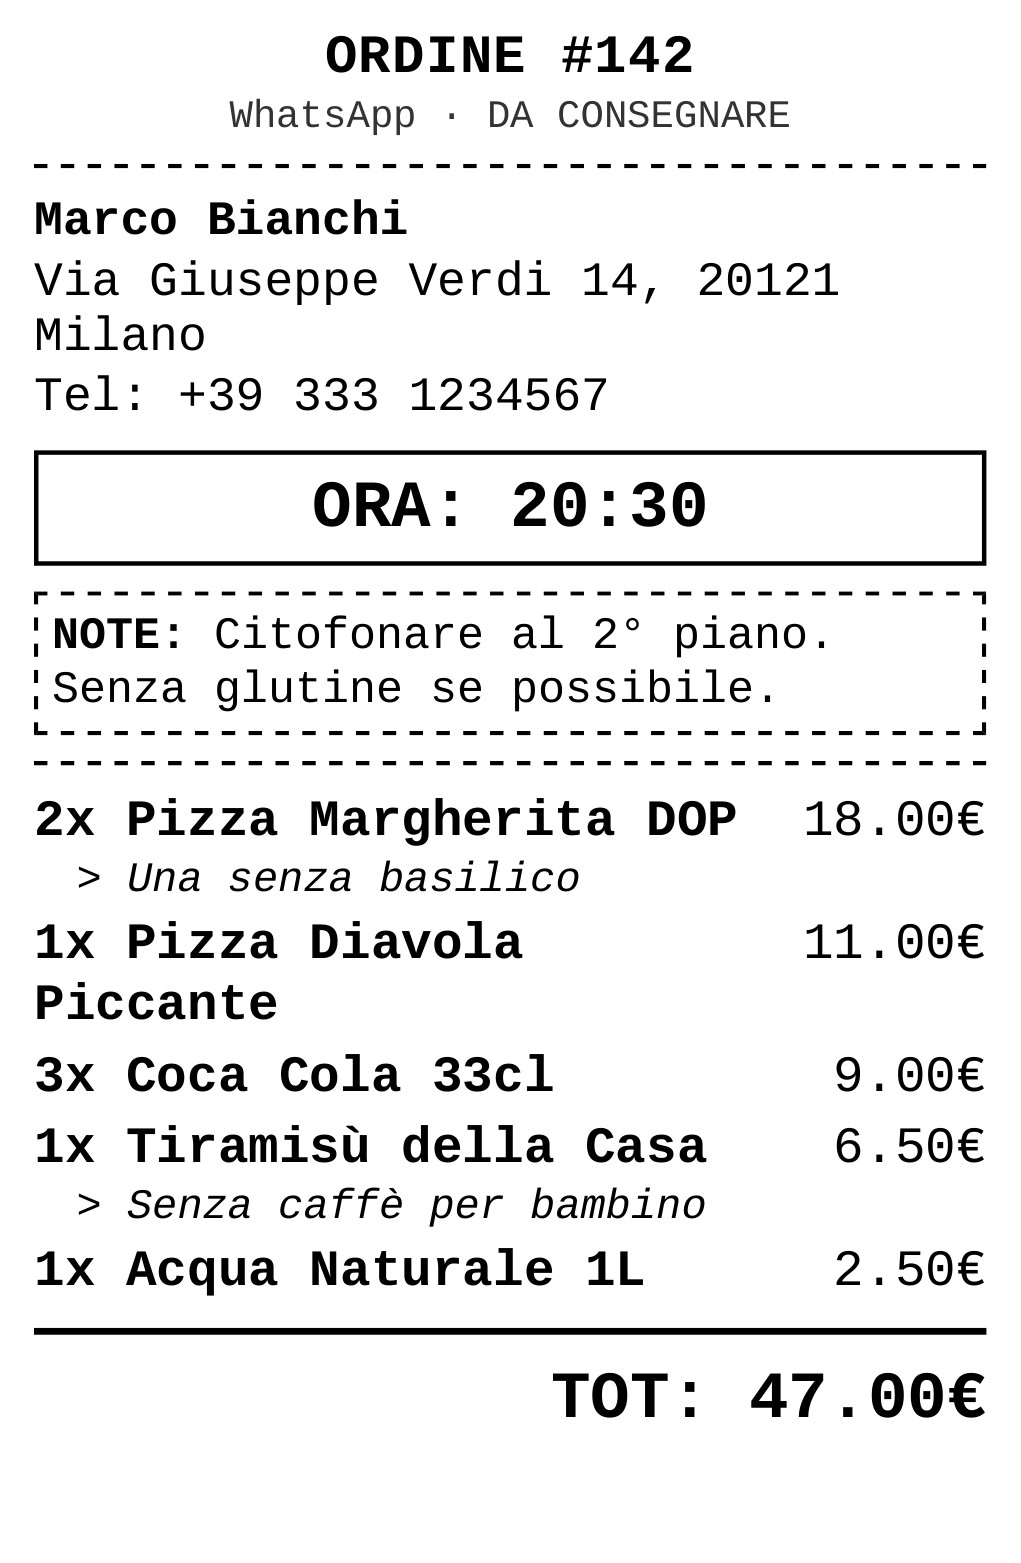
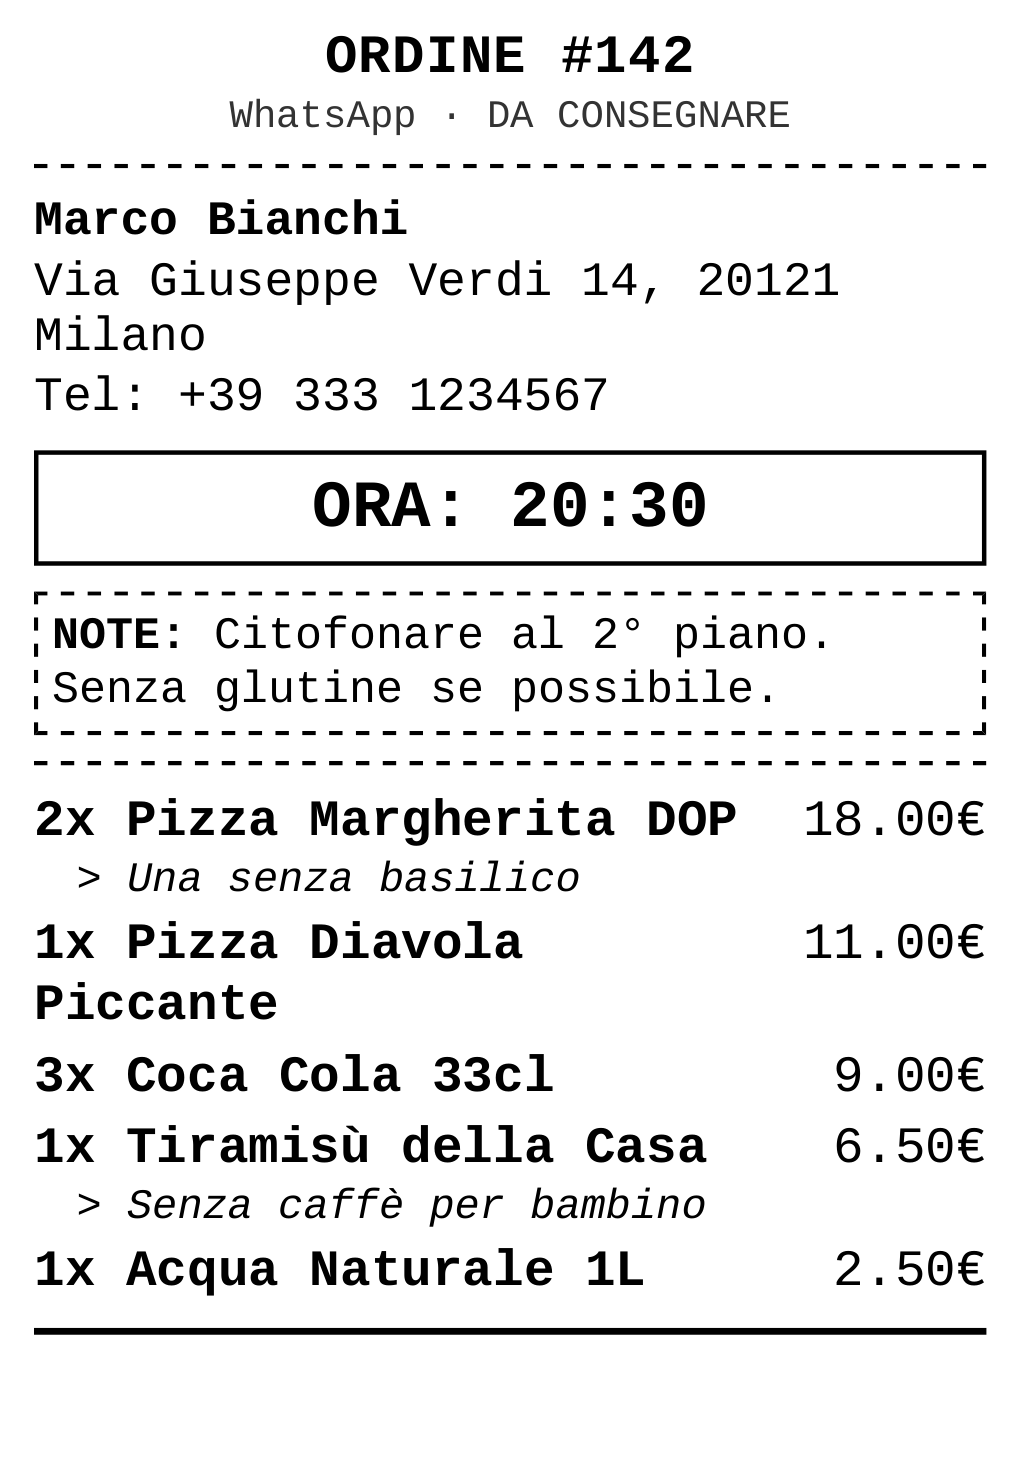
auto-commit for 52181116-141b-4cef-8c33-d109fb5912a6

diff --git a/frontend/app/(tabs)/index.tsx b/frontend/app/(tabs)/index.tsx
@@ -439,10 +439,6 @@ export default function OrdersScreen() {
           
           <hr class="double" />
           <div class="total">TOT: ${order.total.toFixed(2)}€</div>
-          
-          <div class="footer">
-            ${format(new Date(order.createdAt), 'dd/MM/yyyy HH:mm')}
-          </div>
         </body>
       </html>
     `;

diff --git a/scripts/preview_output/thermal_62mm_preview.html b/scripts/preview_output/thermal_62mm_preview.html
@@ -161,7 +161,5 @@
     
     <hr class="double" />
     <div class="total">TOT: 47.00€</div>
-
-    <div class="footer">15/02/2026 19:42</div>
   </body>
 </html>

diff --git a/scripts/generate_print_preview.py b/scripts/generate_print_preview.py
@@ -182,8 +182,6 @@ html_content = f"""
     {items_html}
     <hr class="double" />
     <div class="total">TOT: {order['total']:.2f}€</div>
-
-    <div class="footer">{created_dt}</div>
   </body>
 </html>
 """
